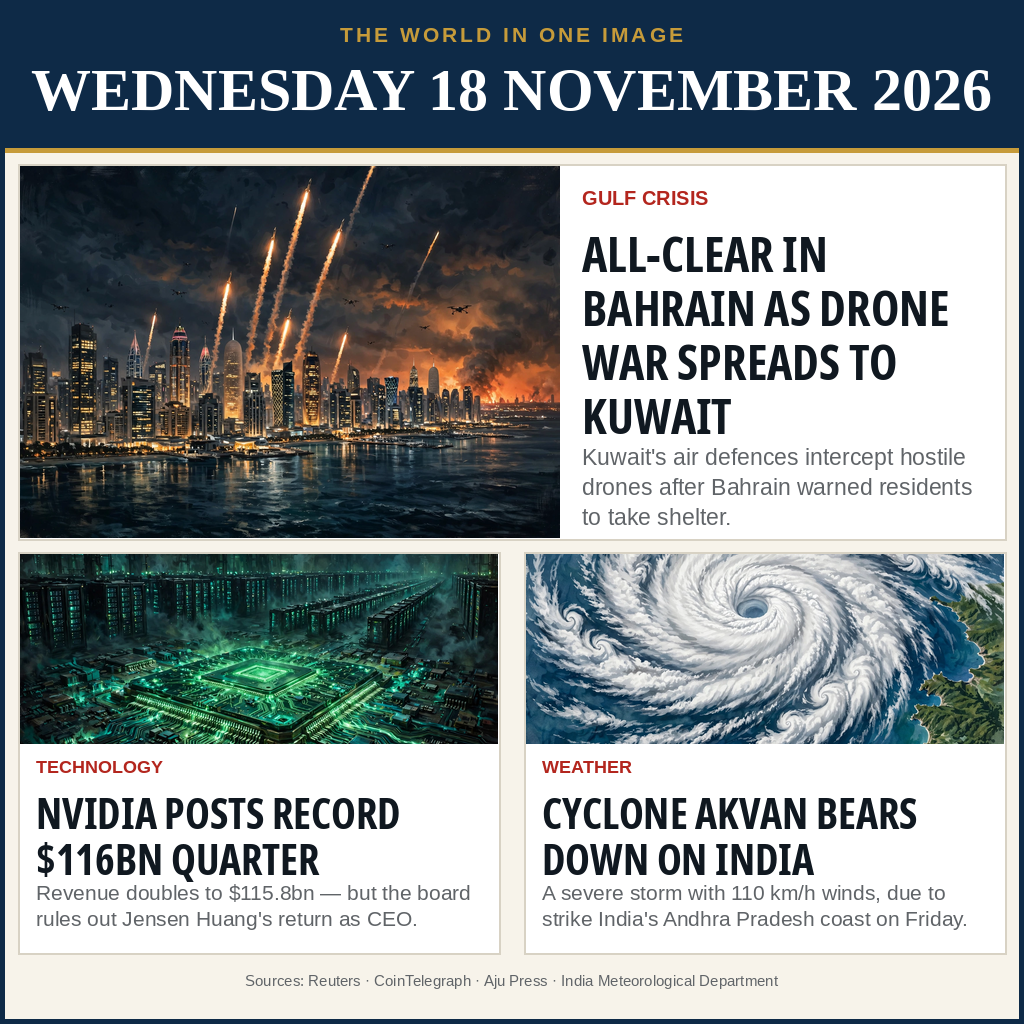
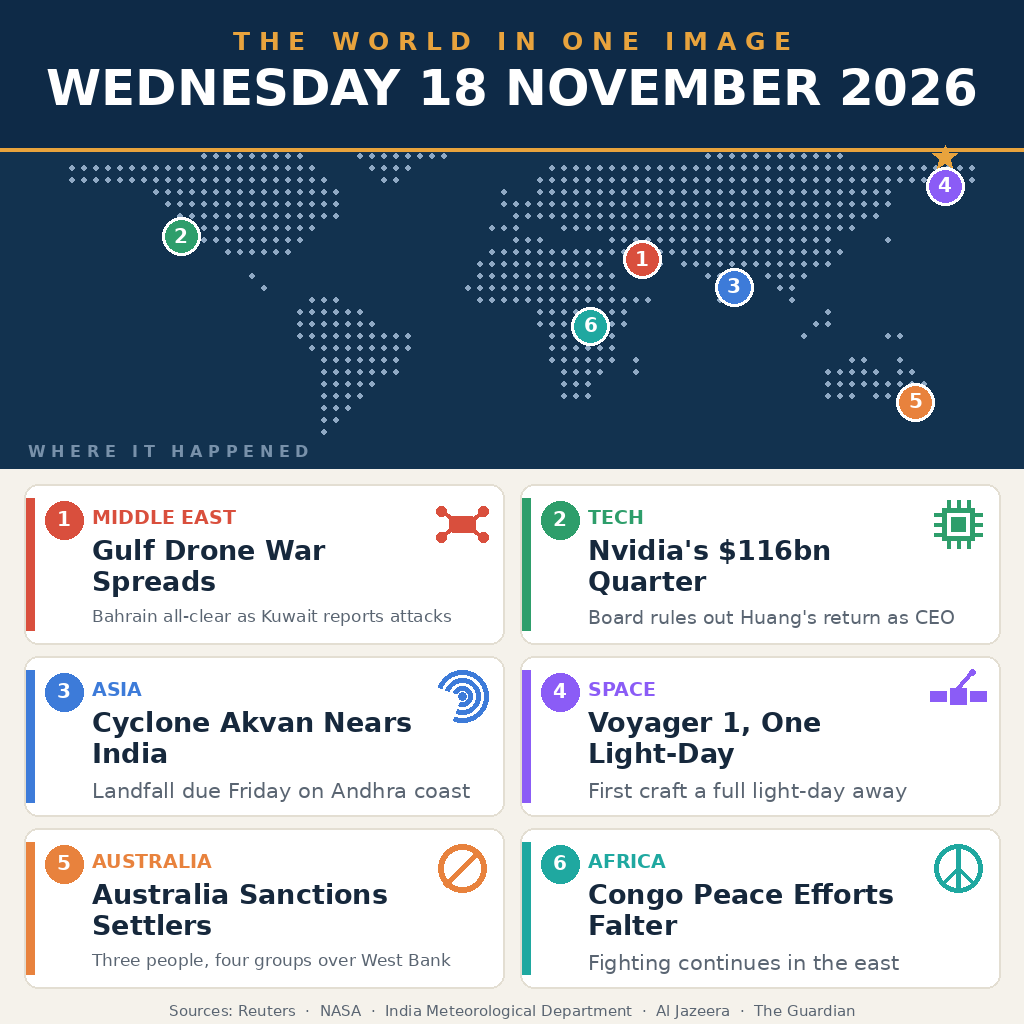
news-image-20261118 v2: flat world-map + 6 story cards (92 KB, stdlib copy script)

diff --git a/main.py b/main.py
@@ -1,24 +1,32 @@
 #!/usr/bin/env python3
-"""make.fun news-image-20261118 entry: write the pre-rendered entry.png
-(a 1024x1024 infographic summing up Wednesday 18 November 2026) to the
-output directory. Standard library only; the output is deterministic.
+"""make.fun news-image-20261118 v2 entry.
+
+Writes the pre-rendered entry.png — a flat 1024x1024 infographic summing up
+Wednesday 18 November 2026 (dotted world map with six numbered story pins
+plus six flat story cards) — to the output directory.
+
+Standard library only, fully deterministic: the same bytes go out on every run.
 """
 import os
 import shutil
 import sys
 
-HERE = os.path.dirname(os.path.abspath(__file__))
 IMAGE = "entry.png"
 
 
+def output_dir():
+    return os.environ.get("MAKEFUN_OUTPUT_DIR", "/output")
+
+
 def main():
-    out_dir = os.environ.get("MAKEFUN_OUTPUT_DIR", "/output")
-    os.makedirs(out_dir, exist_ok=True)
-    src = os.path.join(HERE, IMAGE)
-    dst = os.path.join(out_dir, IMAGE)
+    here = os.path.dirname(os.path.abspath(__file__))
+    src = os.path.join(here, IMAGE)
+    dst_dir = output_dir()
+    os.makedirs(dst_dir, exist_ok=True)
+    dst = os.path.join(dst_dir, IMAGE)
     shutil.copyfile(src, dst)
-    # The gate runs the program twice and compares bytes: confirm the copy
-    # landed whole before reporting success, so a partial write fails loudly.
+    # The grader runs this twice and compares bytes: verify the copy landed
+    # whole before reporting success, so a partial write fails loudly.
     if os.path.getsize(dst) != os.path.getsize(src):
         print("entry.png copy incomplete", file=sys.stderr)
         return 1

diff --git a/README.md b/README.md
@@ -4,9 +4,9 @@
 [![rank](https://make.fun/badge/news-image-20261118/cffilham-jpg/makefun-news-image-20261118/rank.svg)](https://make.fun/bounty/news-image-20261118/leaderboard?utm_source=github&utm_medium=readme&utm_campaign=news-image-20261118)
 [![reward](https://make.fun/badge/news-image-20261118/cffilham-jpg/makefun-news-image-20261118/reward.svg)](https://make.fun/bounty/news-image-20261118?utm_source=github&utm_medium=readme&utm_campaign=news-image-20261118)
 
-One image summing up the world's news of Wednesday 18 November 2026: an editorial infographic with three large illustrated stories, designed for legibility at ~300px — Bahrain's all-clear as the Gulf drone war spreads to Kuwait, Nvidia's record $116bn quarter with the board ruling out Jensen Huang's return, and Cyclone Akvan bearing down on India's east coast. Every story happened or was first reported on 18 November 2026 (sources: Reuters, CoinTelegraph, Aju Press, India Meteorological Department).
+One image summing up the world's news of Wednesday 18 November 2026: a flat, light infographic built for what the judge reads best — a dotted world map with six numbered pins over six flat story cards (flat icons, short headlines, no photographic panels), designed to stay legible at ~300px. The six stories: Bahrain's all-clear as the Gulf drone war spreads to Kuwait; Nvidia's record $116bn quarter with the board ruling out Jensen Huang's return as CEO; Cyclone Akvan bearing down on India's east coast; Voyager 1 reaching one light-day from Earth; Australia sanctioning Israeli settlers over West Bank expansion; and DR Congo's peace efforts faltering as fighting continues in the east. Every story happened or was first reported on 18 November 2026 (sources: Reuters, NASA, India Meteorological Department, Al Jazeera, The Guardian).
 
-Early entry, built from the news verified by ~02:00 UTC on the day; a v2 tonight will cover the full day.
+v2 replaces the photo-heavy v1 (832 KB, judge 925,930) with a 92 KB flat design: more stories, lighter file, clearer at small size.
 
 ## Run it
 
@@ -14,7 +14,7 @@ Early entry, built from the news verified by ~02:00 UTC on the day; a v2 tonight
 MAKEFUN_OUTPUT_DIR=out python3 main.py
 ```
 
-Writes `out/entry.png` (1024×1024, under 1 MiB), byte-identical on every run.
+Writes `out/entry.png` (1024×1024, 91,594 bytes), byte-identical on every run. Standard library only — nothing to install.
 
 ---
 
